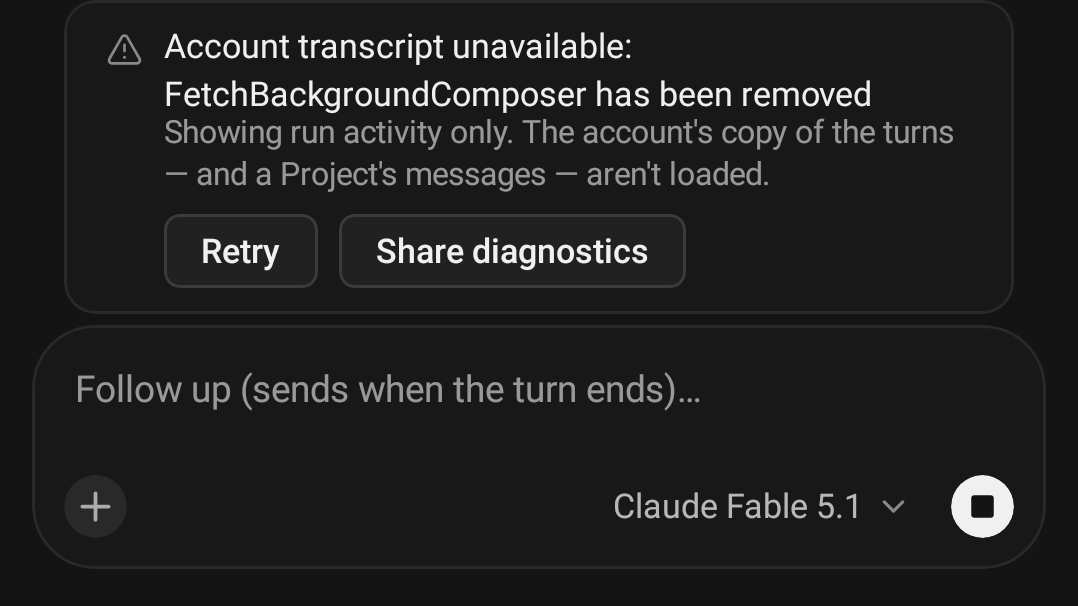
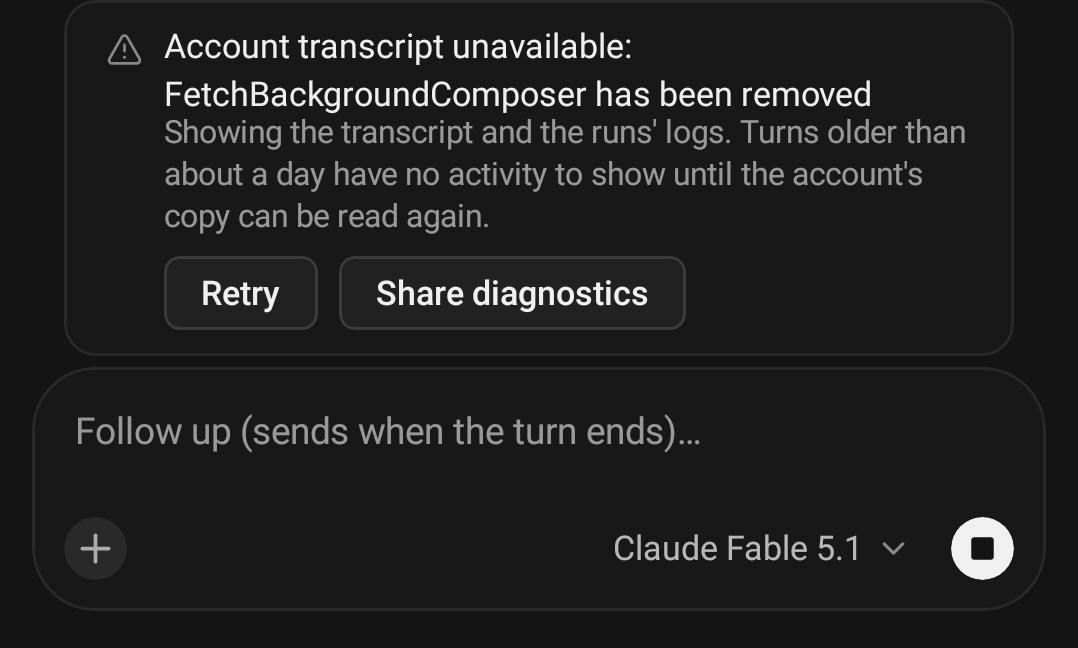
The record path before and after, as a screenshot pair; the replay identity carries the call's arguments; the demo's call ids are the run's own
RecordPathRestoredScreenshotTest draws the same newest turns of the 240-turn Project twice: as Bennett's phone had them with the record refused — the documented fallback, the finished turns' activity expired and named as such, no coordinator message, the refusal over the composer in the server's words — and read from the account's blobs, every turn whole with the coordinator's message among the rows (screenshots/108, 109). The three fallback-row goldens are re-recorded for the row's corrected copy.

CoordinatorTranscript.replayedActivity keys a call on its id, its tool and the arguments as the row reads them (summary and detail), compared only on an id hit: a replayed event carries all of them again, an id an earlier run merely shares (the demo counted c1, c2 … from one per run) does not, and the call is drawn. The demo now mints run-scoped ids as the real stream's toolu_… ids are unique.

QueueRecording subscribes undispatched so the first frame it keeps is the queue as it stands, not as the dispatcher moved it a few milliseconds later under a loaded run (SendFaultsTest flaked once on that in the full suite).

diff --git a/app/src/test/java/com/cursorforandroid/screenshots/RecordPathRestoredScreenshotTest.kt b/app/src/test/java/com/cursorforandroid/screenshots/RecordPathRestoredScreenshotTest.kt
@@ -1,0 +1,193 @@
+package com.cursorforandroid.screenshots
+
+import androidx.activity.ComponentActivity
+import androidx.compose.foundation.background
+import androidx.compose.foundation.layout.Arrangement
+import androidx.compose.foundation.layout.Column
+import androidx.compose.foundation.layout.fillMaxSize
+import androidx.compose.foundation.layout.fillMaxWidth
+import androidx.compose.foundation.layout.padding
+import androidx.compose.foundation.layout.widthIn
+import androidx.compose.material3.ExperimentalMaterial3Api
+import androidx.compose.material3.LocalRippleConfiguration
+import androidx.compose.runtime.Composable
+import androidx.compose.runtime.CompositionLocalProvider
+import androidx.compose.ui.Alignment
+import androidx.compose.ui.Modifier
+import androidx.compose.ui.test.assertCountEquals
+import androidx.compose.ui.test.hasTestTag
+import androidx.compose.ui.test.junit4.createAndroidComposeRule
+import androidx.compose.ui.test.onAllNodesWithText
+import androidx.compose.ui.unit.dp
+import androidx.test.ext.junit.runners.AndroidJUnit4
+import com.cursorforandroid.data.api.BlobRecord
+import com.cursorforandroid.data.api.HeadlessStep
+import com.cursorforandroid.data.api.dto.RunDto
+import com.cursorforandroid.data.api.dto.V0ConversationMessageDto
+import com.cursorforandroid.data.repo.HeadlessTranscript
+import com.cursorforandroid.data.repo.RecordFallback
+import com.cursorforandroid.data.repo.TimelineBuilder
+import com.cursorforandroid.domain.RunFooter
+import com.cursorforandroid.domain.RunStatus
+import com.cursorforandroid.domain.SystemNotifications
+import com.cursorforandroid.domain.TimelineItem
+import com.cursorforandroid.domain.TranscriptPresenter
+import com.cursorforandroid.domain.TranscriptRow
+import com.cursorforandroid.domain.UserMessage
+import com.cursorforandroid.fixtures.BlobFixtures
+import com.cursorforandroid.fixtures.LongProject
+import com.cursorforandroid.ui.components.ComposerBox
+import com.cursorforandroid.ui.components.ComposerMenuActions
+import com.cursorforandroid.ui.conversation.LocalTranscriptControls
+import com.cursorforandroid.ui.conversation.RecordFallbackRow
+import com.cursorforandroid.ui.conversation.TranscriptControls
+import com.cursorforandroid.ui.conversation.TranscriptRowView
+import com.cursorforandroid.ui.theme.CursorDimens
+import com.cursorforandroid.ui.theme.CursorTheme
+import com.cursorforandroid.ui.theme.ThemeMode
+import com.cursorforandroid.util.AppClock
+import com.github.takahirom.roborazzi.ExperimentalRoborazziApi
+import com.github.takahirom.roborazzi.RoborazziOptions
+import com.github.takahirom.roborazzi.captureScreenRoboImage
+import com.google.common.truth.Truth.assertThat
+import kotlinx.coroutines.runBlocking
+import org.junit.After
+import org.junit.Before
+import org.junit.Rule
+import org.junit.Test
+import org.junit.runner.RunWith
+import org.robolectric.annotation.Config
+import org.robolectric.annotation.GraphicsMode
+import java.io.File
+
+/**
+ * The same Project chat twice, on the newest turns of the 240-turn fixture (see [LongProject]):
+ *
+ *  - before: what Bennett's phone showed on 2026-09-20 once Cursor had removed `FetchBackgroundComposer` — the
+ *    documented path standing in: his prompts and the coordinator's notes from `/v0`, the turns whose logs the
+ *    server had let go named as expired, the coordinator's messages to him gone with those logs, and over the
+ *    composer the record's refusal in the server's words;
+ *  - after: the record path restored on the blob-backed read Cursor's own client makes
+ *    (`GetLatestAgentConversationState` + `GetBlobForAgentKV`, see `BlobRecord`): every turn whole from its blobs,
+ *    the coordinator's messages among the rows, no refusal to show.
+ *
+ * Written to `screenshots/` and compared pixel for pixel in CI.
+ */
+@RunWith(AndroidJUnit4::class)
+@GraphicsMode(GraphicsMode.Mode.NATIVE)
+@Config(sdk = [35], qualifiers = "w411dp-h914dp-night-420dpi")
+class RecordPathRestoredScreenshotTest {
+
+    @get:Rule
+    val compose = createAndroidComposeRule<ComponentActivity>()
+
+    private val outDir = File(System.getProperty("user.dir"), "../screenshots").normalize()
+    private val firstAt = 1_800_000_000_000L - LongProject.TURNS * LongProject.TURN_SPACING_MS
+    private val turns = LongProject.turns(firstAt)
+    /** The newest turns the frame is cut to: from the last of Bennett's own turns (every sixteenth is his) to the live one. */
+    private val newest = turns.drop(turns.indexOfLast { it.isUser })
+
+    @Before
+    fun pinClock() {
+        AppClock.nowMillis = { turns.last().startedAt + 90_000L }
+    }
+
+    @After
+    fun unpinClock() {
+        AppClock.nowMillis = System::currentTimeMillis
+    }
+
+    @OptIn(ExperimentalRoborazziApi::class)
+    private fun capture(name: String) {
+        compose.waitForIdle()
+        captureScreenRoboImage(File(outDir, "$name.png").path, RoborazziOptions())
+    }
+
+    private fun run(turn: LongProject.Turn): RunDto =
+        RunDto(id = turn.runId, agentId = LongProject.AGENT_ID, status = turn.status, createdAt = LongProject.iso(turn.startedAt), updatedAt = LongProject.iso(turn.endedAt), durationMs = turn.durationMs, result = null)
+
+    /**
+     * The documented fallback: `/v0`'s prompts and notes paired with the runs, the finished turns' logs expired —
+     * their activity, the coordinator's messages with it, gone — and the row that says so under each.
+     */
+    private fun rowsBefore(): List<TranscriptRow> {
+        val transcript = LongProject.v0Transcript(newest).map { V0ConversationMessageDto(it.id, it.type, it.text) }
+        val runs = newest.map(::run)
+        val expired = newest.filter { it.durationMs != null }.mapTo(HashSet()) { it.runId }
+        val items = TimelineBuilder.fromHistory(transcript, runs, expired = expired, expiredRowWithReplies = true)
+        return TranscriptPresenter().present(items, coordinatorMode = true, runActive = true).rows
+    }
+
+    /** The record restored: each turn read from its blobs as the account serves them, cut and built as the record path builds it. */
+    private fun rowsAfter(): List<TranscriptRow> = runBlocking {
+        val record = BlobFixtures.record(turns.flatMap { it.record })
+        val from = turns.size - newest.size
+        val steps = ArrayList<HeadlessStep>()
+        for (index in from until turns.size) steps += BlobRecord.turn(index, record.turnIds[index], read = { id -> record.blobs.getValue(id) })
+        val cut = HeadlessTranscript.split(steps)
+        val items = ArrayList<TimelineItem>()
+        cut.forEachIndexed { i, turn ->
+            val source = newest[i]
+            turn.prompt?.let { prompt -> items += SystemNotifications.parse("rec-prompt-$i", prompt, source.startedAt)?.items ?: listOf(UserMessage("rec-prompt-$i", prompt, source.startedAt)) }
+            items += HeadlessTranscript.body(turn, "rec-$i")
+            source.durationMs?.let { items += RunFooter("rec-footer-$i", source.runId, RunStatus.FINISHED, it, emptyList()) }
+        }
+        TranscriptPresenter().present(items, coordinatorMode = true, runActive = true).rows
+    }
+
+    @OptIn(ExperimentalMaterial3Api::class)
+    private fun show(fallback: RecordFallback?, content: @Composable () -> Unit) {
+        compose.setContent {
+            CursorTheme(mode = ThemeMode.Dark) {
+                CompositionLocalProvider(LocalRippleConfiguration provides null, LocalTranscriptControls provides TranscriptControls(onOpenAgent = {}, agentById = { null }, coordinatorMode = true)) {
+                    Column(Modifier.fillMaxSize().background(CursorTheme.colors.canvas)) {
+                        Column(
+                            Modifier.weight(1f).fillMaxWidth().padding(horizontal = 16.dp, vertical = 12.dp),
+                            verticalArrangement = Arrangement.spacedBy(10.dp),
+                        ) { content() }
+                        Column(
+                            Modifier.fillMaxWidth().padding(horizontal = CursorDimens.composerGutter).padding(bottom = CursorDimens.composerBottomGap),
+                            horizontalAlignment = Alignment.CenterHorizontally,
+                        ) {
+                            if (fallback != null) RecordFallbackRow(fallback, onRetry = {}, onShareDiagnostics = {}, modifier = Modifier.widthIn(max = CursorDimens.composerMaxWidth).padding(bottom = 4.dp))
+                            ComposerBox(
+                                value = "",
+                                onValueChange = {},
+                                placeholder = "Follow up (queues on your account)…",
+                                onSend = {},
+                                isRunning = true,
+                                onStop = {},
+                                plusMenu = ComposerMenuActions(onPickMedia = {}),
+                                modelLabel = "Claude Fable 5.1",
+                                onModel = {},
+                                modifier = Modifier.widthIn(max = CursorDimens.composerMaxWidth),
+                            )
+                        }
+                    }
+                }
+            }
+        }
+        compose.waitForIdle()
+    }
+
+    @Test
+    fun recordPathBefore() {
+        val rows = rowsBefore()
+        // No coordinator message survives the logs' expiry on the documented path; the expired rows say why.
+        assertThat(rows.filterIsInstance<TranscriptRow.Message>()).isEmpty()
+        val fallback = RecordFallback("FetchBackgroundComposer has been removed", sinceMillis = AppClock.now(), readMillis = 133L, retryAfterMillis = null)
+        show(fallback) { rows.takeLast(7).forEach { TranscriptRowView(it) } }
+        compose.waitUntil(10_000) { compose.onAllNodesWithText(TimelineBuilder.EXPIRED_TITLE).fetchSemanticsNodes().isNotEmpty() }
+        capture("108_record_path_before")
+    }
+
+    @Test
+    fun recordPathAfter() {
+        val rows = rowsAfter()
+        assertThat(rows.filterIsInstance<TranscriptRow.Message>()).isNotEmpty()
+        show(fallback = null) { rows.takeLast(6).forEach { TranscriptRowView(it) } }
+        compose.waitUntil(10_000) { compose.onAllNodes(hasTestTag("coordinator-message")).fetchSemanticsNodes().isNotEmpty() }
+        compose.onAllNodes(hasTestTag("record-fallback")).assertCountEquals(0)
+        capture("109_record_path_after")
+    }
+}

diff --git a/app/src/main/java/com/cursorforandroid/domain/CoordinatorTranscript.kt b/app/src/main/java/com/cursorforandroid/domain/CoordinatorTranscript.kt
@@ -178,6 +178,13 @@ object CoordinatorTranscript {
      * twice. Footers are never a replay: the silent run did run, and its footer and stretch are its own. Runs are
      * cut at their footers; the items after the last footer are the run under way.
      */
+    /**
+     * The identity a call is drawn once under: its id and tool, and the arguments as the row reads them. A replayed
+     * event carries all four again; a call that merely shares an id with an earlier one (an id scheme counting from
+     * one per run) does not, and is drawn.
+     */
+    private fun callKey(call: ToolCall): String = "${call.callId}\u0000${call.name.lowercase()}\u0000${call.summary}\u0000${call.detail ?: ""}"
+
     fun replayedActivity(items: List<TimelineItem>): Map<String, String> {
         var out: MutableMap<String, String>? = null
         // Where each call id was first drawn: by group, and the run's footer id once known (the original's run).
@@ -197,7 +204,7 @@ object CoordinatorTranscript {
                 if (item !is ActivityGroup) continue
                 for (step in item.steps) {
                     if (step !is ToolCall || step.callId.isBlank()) continue
-                    val key = "${step.callId}\u0000${step.name.lowercase()}"
+                    val key = callKey(step)
                     if (seenCalls.containsKey(key)) replayed += messageKey(item, step) else own = true
                 }
             }
@@ -208,15 +215,15 @@ object CoordinatorTranscript {
                         val calls = item.steps.filterIsInstance<ToolCall>()
                         val gone = calls.filter { messageKey(item, it) in replayed }
                         if (gone.isEmpty()) {
-                            calls.forEach { seenCalls.putIfAbsent("${it.callId}\u0000${it.name.lowercase()}", runName) }
+                            calls.forEach { seenCalls.putIfAbsent(callKey(it), runName) }
                             continue
                         }
                         val map = out ?: LinkedHashMap<String, String>().also { out = it }
                         if (gone.size == calls.size) {
-                            map[itemKey(item)] = seenCalls.getValue("${gone.first().callId}\u0000${gone.first().name.lowercase()}")
+                            map[itemKey(item)] = seenCalls.getValue(callKey(gone.first()))
                         } else {
-                            gone.forEach { map[messageKey(item, it)] = seenCalls.getValue("${it.callId}\u0000${it.name.lowercase()}") }
-                            calls.filter { messageKey(item, it) !in replayed }.forEach { seenCalls.putIfAbsent("${it.callId}\u0000${it.name.lowercase()}", runName) }
+                            gone.forEach { map[messageKey(item, it)] = seenCalls.getValue(callKey(it)) }
+                            calls.filter { messageKey(item, it) !in replayed }.forEach { seenCalls.putIfAbsent(callKey(it), runName) }
                         }
                     }
                     is AssistantMessage -> {

diff --git a/app/src/main/java/com/cursorforandroid/data/demo/DemoBackend.kt b/app/src/main/java/com/cursorforandroid/data/demo/DemoBackend.kt
@@ -116,7 +116,11 @@ internal class DemoStore(seeds: List<DemoData.Seed> = DemoData.seeds) {
     @Synchronized
     fun eventLog(runId: String): List<RunStreamEvent>? = eventLogs[runId]?.toList()
 
-    /** Turns a finished turn's scripted steps into the events its stream would have carried, mirroring the transcript. */
+    /**
+     * Turns a finished turn's scripted steps into the events its stream would have carried, mirroring the transcript.
+     * Call ids are the run's own, as the real stream's `toolu_…` ids are unique across a chat: an id shared across runs
+     * reads as a turn's log replaying an earlier turn (see `CoordinatorTranscript.replayedActivity`).
+     */
     private fun eventLog(trace: List<DemoData.Step>, turnReplies: List<String>, run: RunDto): List<RunStreamEvent> = buildList {
         add(RunStreamEvent.Status(run.id, RunStatus.RUNNING))
         val replies = turnReplies.iterator()
@@ -125,7 +129,7 @@ internal class DemoStore(seeds: List<DemoData.Seed> = DemoData.seeds) {
             when (step) {
                 is DemoData.Step.Thought -> add(RunStreamEvent.Thinking(step.text))
                 is DemoData.Step.Tool -> {
-                    val id = "c${++calls}"
+                    val id = "${run.id}:c${++calls}"
                     val key = when (step.name) {
                         "grep" -> "pattern"
                         "codebase_search", "web_search" -> "query"
@@ -136,12 +140,12 @@ internal class DemoStore(seeds: List<DemoData.Seed> = DemoData.seeds) {
                     add(toolEvent(id, step.name, "completed", key to step.arg))
                 }
                 is DemoData.Step.Delegate -> {
-                    val id = "s${++calls}"
+                    val id = "${run.id}:s${++calls}"
                     add(toolEvent(id, "task", "running", "subagent_type" to "explore", "description" to step.description))
                     add(toolEvent(id, "task", "completed", "subagent_type" to "explore", "description" to step.description))
                 }
                 is DemoData.Step.Call -> {
-                    val id = "k${++calls}"
+                    val id = "${run.id}:k${++calls}"
                     val args = Json.parseToJsonElement(step.args)
                     add(RunStreamEvent.ToolCall(SseToolCallDto(callId = id, name = step.name, status = "running", args = args)))
                     add(RunStreamEvent.ToolCall(SseToolCallDto(callId = id, name = step.name, status = "completed", args = args, result = step.result?.let(Json::parseToJsonElement))))

diff --git a/app/src/test/java/com/cursorforandroid/data/faults/FaultRig.kt b/app/src/test/java/com/cursorforandroid/data/faults/FaultRig.kt
@@ -31,6 +31,7 @@ import com.cursorforandroid.domain.FollowUpComposerState
 import com.cursorforandroid.domain.QueuedFollowUp
 import com.cursorforandroid.util.AppClock
 import kotlinx.coroutines.CoroutineScope
+import kotlinx.coroutines.CoroutineStart
 import kotlinx.coroutines.Dispatchers
 import kotlinx.coroutines.Job
 import kotlinx.coroutines.SupervisorJob
@@ -195,7 +196,9 @@ class QueueRecording(flow: StateFlow<FollowUpComposerState>, scope: CoroutineSco
     enum class Card { QUEUED, SENDING, HELD, FAILED, CONFIRM, STEERED }
 
     private val frames = CopyOnWriteArrayList<Map<String, Card>>()
-    private val job: Job = scope.launch { flow.collect { state -> frames += state.queue.associate { it.id to it.card() } } }
+    // Subscribed before the caller's next line runs (undispatched): the first frame recorded is the queue as it stands,
+    // not as the dispatcher has moved it a few milliseconds later under a loaded test run.
+    private val job: Job = scope.launch(start = CoroutineStart.UNDISPATCHED) { flow.collect { state -> frames += state.queue.associate { it.id to it.card() } } }
 
     private fun QueuedFollowUp.card(): Card = when {
         error != null -> Card.FAILED
